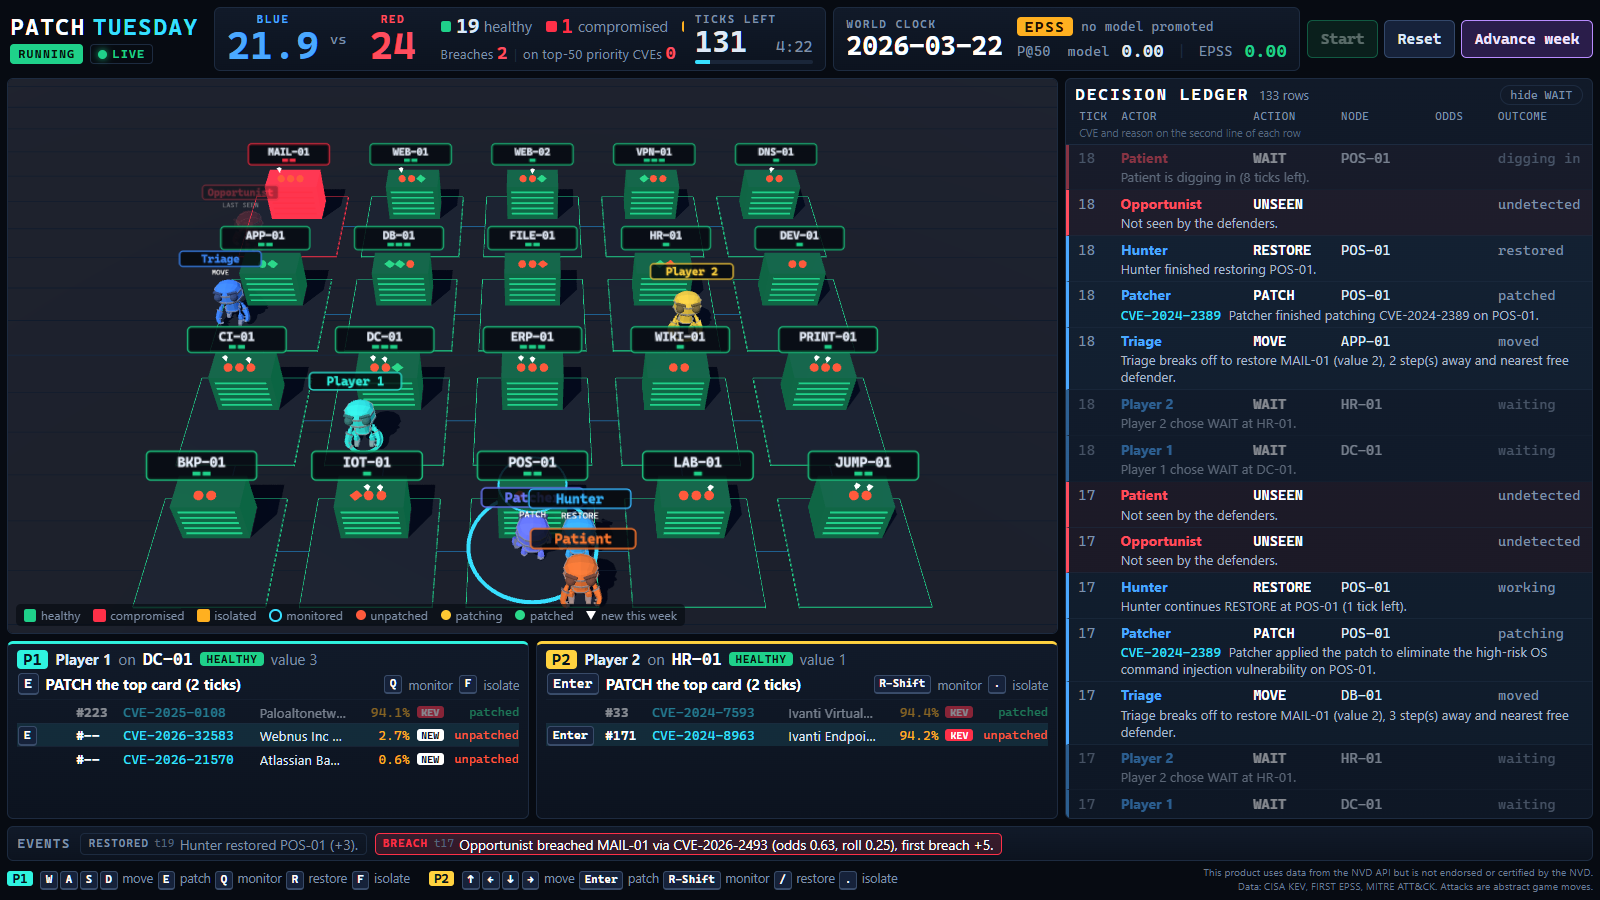
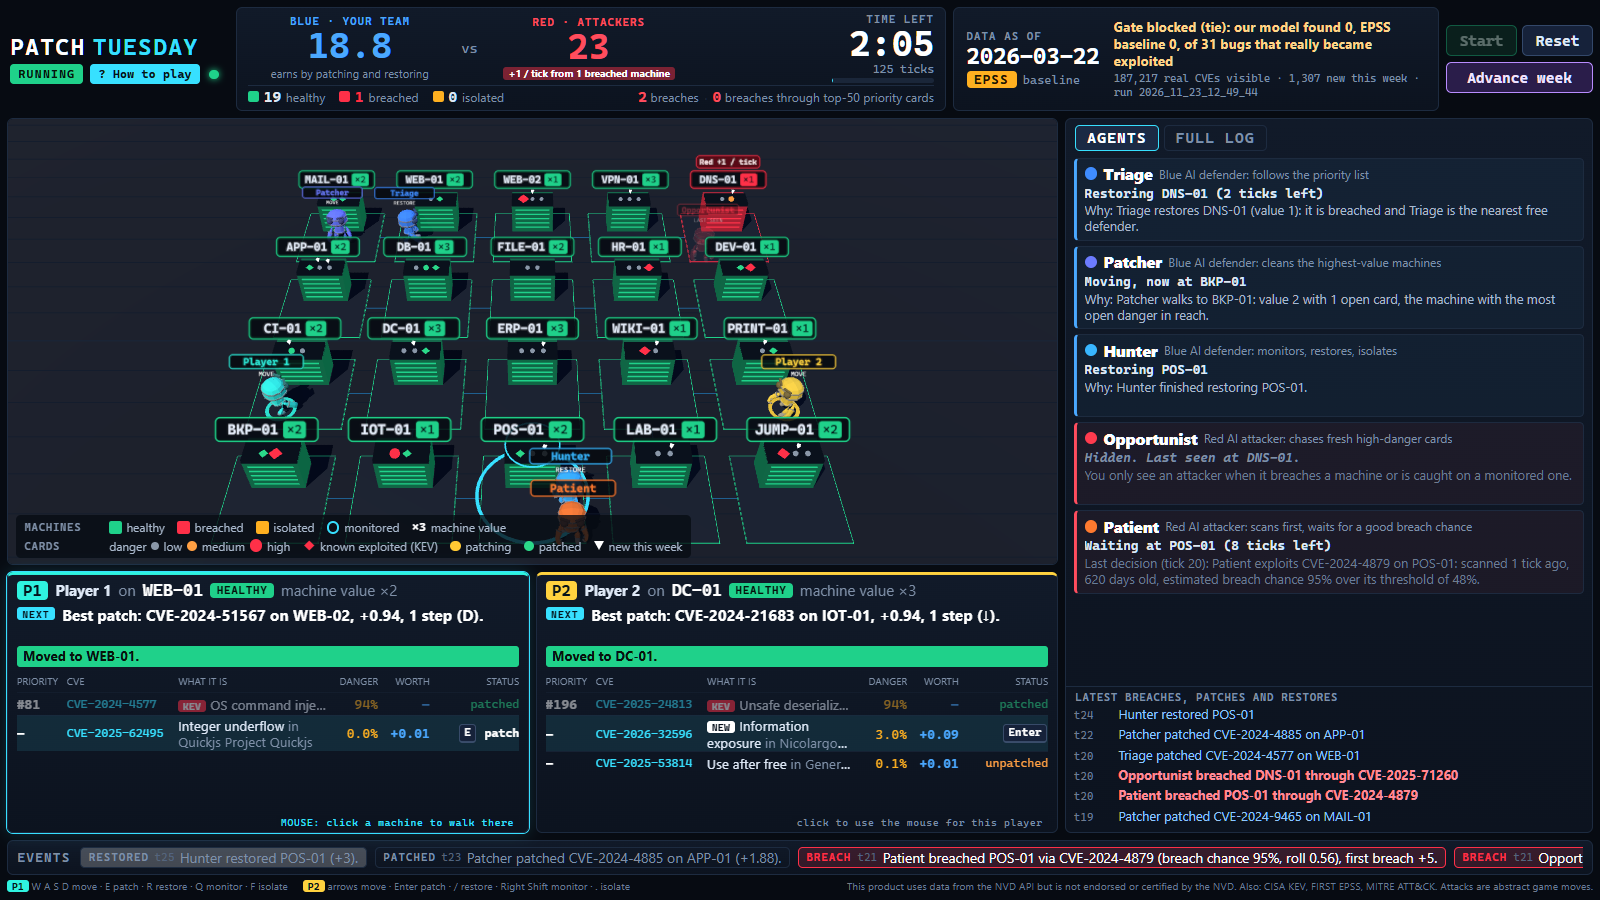
Review fixes: plain wording in events and reasons, fog and log-tail hardening
All 22 review findings resolved. Hidden ledger rows also blank score_source; advance log tail ignores stale logs; event and reason texts use the screen's vocabulary; player panel and agents tab polish. 148 game tests and 2 end-to-end tests pass.

diff --git a/web/src/players.js b/web/src/players.js
@@ -1,12 +1,11 @@
 // The two player panels: who you are, the next best move, what your last key did,
 // and the cards on the machine you stand on.
 
-import { el, fmtDanger, plural } from './dom.js';
+import { el, fmtDanger } from './dom.js';
 import { KEYS, fmtWorth, isAttacked, nextMove, patchChoice, sortCards, worth } from './advisor.js';
 
 const FEEDBACK_MS = 4000;
 const STATE_LABEL = { healthy: 'HEALTHY', compromised: 'BREACHED', isolated: 'ISOLATED' };
-const BUSY_LABEL = { PATCH: 'patching', RESTORE: 'restoring', MONITOR: 'monitoring', ISOLATE: 'isolating' };
 
 export function createPlayerPanels(boxes) {
   // feedback[pid]: { text, kind: 'ok' | 'bad' | 'note', at }
@@ -63,8 +62,12 @@ export function createPlayerPanels(boxes) {
     if (hit && c.patch_state === 'unpatched') worthCell.title = 'Red already attacked this card: patching it still blocks it, but scores nothing.';
 
     const status = el('span', 'hc-state');
-    if (isChoice) status.append(el('kbd', null, keys.patch), document.createTextNode(' patch'));
-    else status.textContent = c.patch_state === 'unpatched' && hit ? 'attacked' : c.patch_state || '';
+    if (isChoice) {
+      // A long key name ("Enter") fills the cell by itself; the header row says what the key does.
+      status.append(el('kbd', null, keys.patch));
+      if (keys.patch.length <= 2) status.append(document.createTextNode(' patch'));
+      status.title = `Press ${keys.patch} to patch this card`;
+    } else status.textContent = c.patch_state === 'unpatched' && hit ? 'attacked' : c.patch_state || '';
 
     row.append(
       el('span', 'hc-rank', Number.isFinite(c.priority_rank) ? `#${c.priority_rank}` : '—'),
@@ -105,10 +108,8 @@ export function createPlayerPanels(boxes) {
       );
       if (node.monitored) head.append(el('span', 'pill pill-mon', 'MONITORED'));
     }
-    if (actor.busy_ticks > 0) {
-      const what = BUSY_LABEL[actor.action] || 'busy';
-      head.append(el('span', 'hint-busy', `${what}: ${plural(actor.busy_ticks, 'tick')} left`));
-    }
+    // A running PATCH or RESTORE is reported by the NEXT line below ("Patching on X: 1 tick left"),
+    // where there is room for it; here it used to be cut off at the panel edge.
     frag.append(head);
 
     const move = nextMove(state, pid, ctx);

diff --git a/web/src/rightpanel.js b/web/src/rightpanel.js
@@ -247,7 +247,7 @@ export function createRightPanel() {
   }
 
   // The reason line must agree with the action line above it. When the agent is waiting now
-  // (a cooldown, or between decisions) but the stored reason belongs to an earlier action, it
+  // (a cooldown after an attack, or between decisions) but the stored reason belongs to an earlier action, it
   // is shown as that: "Last decision (tick 44): ...".
   function setReason(card, r, hidden, actor) {
     if (hidden) {
@@ -260,7 +260,7 @@ export function createRightPanel() {
       setText(card.reason, 'Why: thinking…');
       card.reason.className = 'agent-reason is-muted';
     } else {
-      const stale = !!actor && String(actor.action || 'WAIT') === 'WAIT' && !(Number(actor.busy_ticks) > 0) && r.action !== 'WAIT';
+      const stale = !!actor && String(actor.action || 'WAIT') === 'WAIT' && r.action !== 'WAIT';
       setText(card.reason, stale ? `Last decision (tick ${r.tick}): ${plainReason(r.text)}` : `Why: ${plainReason(r.text)}`);
       card.reason.className = stale ? 'agent-reason is-muted' : 'agent-reason';
     }
